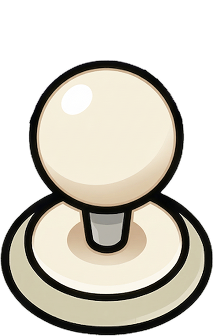
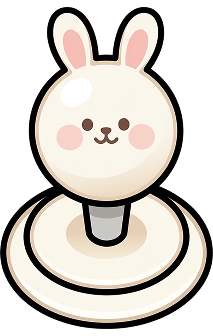
Update category modal header and decor styling
- Change category modal header background from #b1cfe1 to #646464
- Update active tab style: #FFD016 background with black text
- Replace categroy-decor-1 image and shift position right by 3px

diff --git a/src/components/LearningPage.jsx b/src/components/LearningPage.jsx
@@ -1437,8 +1437,8 @@ export default function LearningPage({
           <button key={key} onClick={onClick} className="relative flex flex-col items-center active:scale-95" style={{ overflow: 'visible' }}>
             <div style={{
               position: 'relative',
-              width: 102, backgroundColor: '#fbf2e2',
-              border: isSelected ? '3px solid #ffd016' : '1.5px solid #000',
+              width: 102, boxSizing: 'border-box', backgroundColor: '#fbf2e2',
+              border: `2px solid ${isSelected ? '#ffd016' : '#000'}`,
               borderRadius: 10, display: 'flex', flexDirection: 'column', alignItems: 'center',
               padding: '6px 6px 8px',
             }}>
@@ -1522,7 +1522,7 @@ export default function LearningPage({
 
               {/* ── Fixed top: Blue header bar ── */}
               <div className="shrink-0" style={{
-                backgroundColor: '#b1cfe1', borderBottom: '2px solid #000',
+                backgroundColor: '#646464', borderBottom: '2px solid #000',
                 padding: '17px 16px 14px', position: 'relative', zIndex: 3,
                 display: 'flex', alignItems: 'center', justifyContent: 'center', gap: 10,
               }}>
@@ -1549,8 +1549,8 @@ export default function LearningPage({
                       style={{
                         height: 32, paddingLeft: 16, paddingRight: 16,
                         borderRadius: 8, border: '1.5px solid #000',
-                        backgroundColor: isActive ? '#000' : '#fbf2e2',
-                        color: isActive ? '#fff' : '#000',
+                        backgroundColor: isActive ? '#FFD016' : '#fbf2e2',
+                        color: '#000',
                         fontSize: 14, fontWeight: 500, lineHeight: '20px', letterSpacing: 0.1,
                       }}
                     >
@@ -1672,7 +1672,7 @@ export default function LearningPage({
               <div className="shrink-0 relative flex justify-center" style={{ paddingTop: 6, paddingBottom: 20 }}>
                 {/* Decorations */}
                 <img src="/assets/figma/categroy-decor-1.png" alt="" className="pointer-events-none"
-                  style={{ position: 'absolute', left: 10, bottom: 16, width: 71, height: 112 }} />
+                  style={{ position: 'absolute', left: 13, bottom: 16, width: 71, height: 112 }} />
                 <img src="/assets/figma/categroy-decor-2.png" alt="" className="pointer-events-none"
                   style={{ position: 'absolute', right: 10, bottom: 16, width: 55, height: 56 }} />
                 <button
@@ -1682,6 +1682,7 @@ export default function LearningPage({
                     width: 158, height: 51, borderRadius: 100,
                     backgroundColor: '#ffd016', border: '2px solid #000',
                     position: 'relative', zIndex: 1,
+                    transform: 'translateX(8px)',
                   }}
                 >
                   <span style={{ fontSize: 24, fontWeight: 400, color: '#000' }}>{t.ok}</span>
